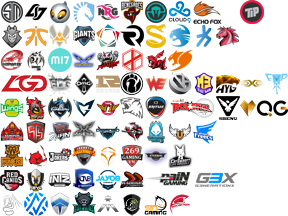
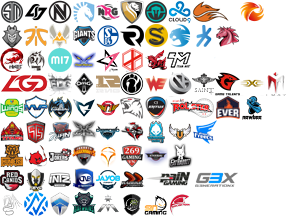
Reverted unnecessary change (and CLG bias)

diff --git a/flair.less b/flair.less
@@ -241,8 +241,8 @@
 }
 
 // NA LCS
-.make-team-flair("01",	0, 0);	// CLG
-.make-team-flair("00",	1, 0);	// TSM
+.make-team-flair("00",	0, 0);	// TSM
+.make-team-flair("01",	1, 0);	// CLG
 .make-team-flair("nvy",	2, 0);	// Envy
 .make-team-flair("03",	3, 0);	// Team Liquid
 .make-team-flair("nrg",	4, 0);	// NRG Esports
